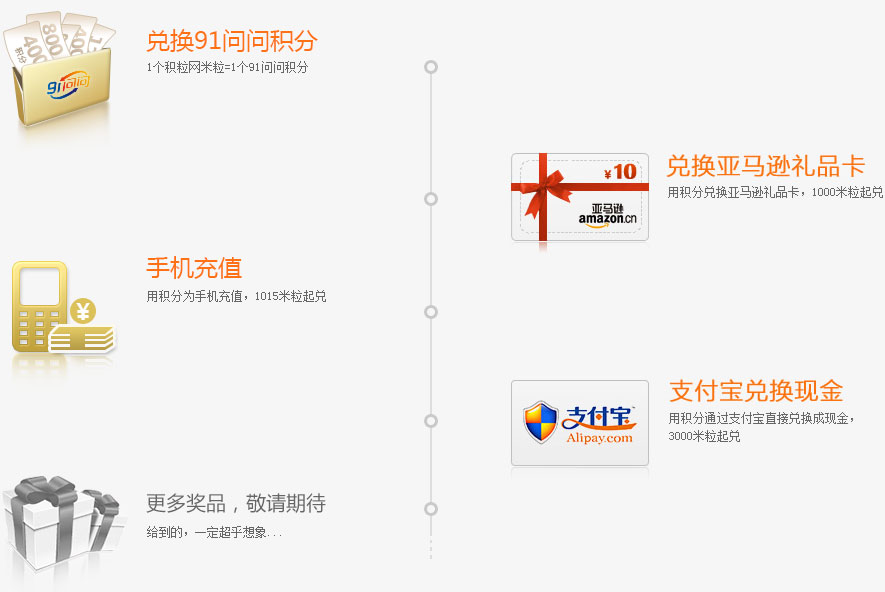
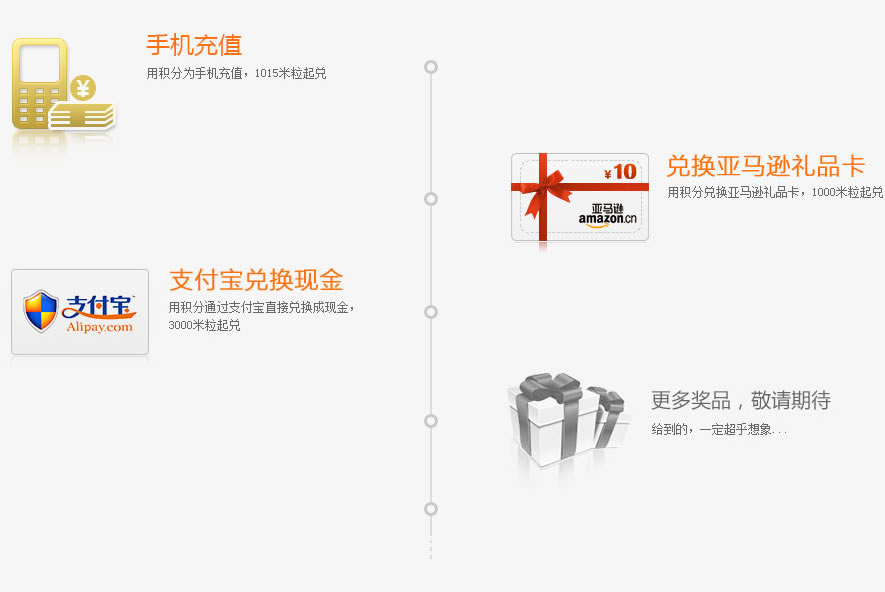
对应 issue #253 去掉兑换91问问按钮

diff --git a/web/css/exchange.css b/web/css/exchange.css
@@ -37,7 +37,7 @@
 }
 .exchange .about a.mobileBtn{
     left: 186px;
-    top: 590px;
+    top: 366px;
 }
 .exchange .about a.close{
 	background-color: #999999;
@@ -54,8 +54,8 @@
 }
 
 .exchange .about a.alipayBtn{
-    right: 141px;
-    top: 728px;
+    right: 642px;
+    top: 618px;
 }
 .exchange .about .amazonBtn{
 	right: 142px;
